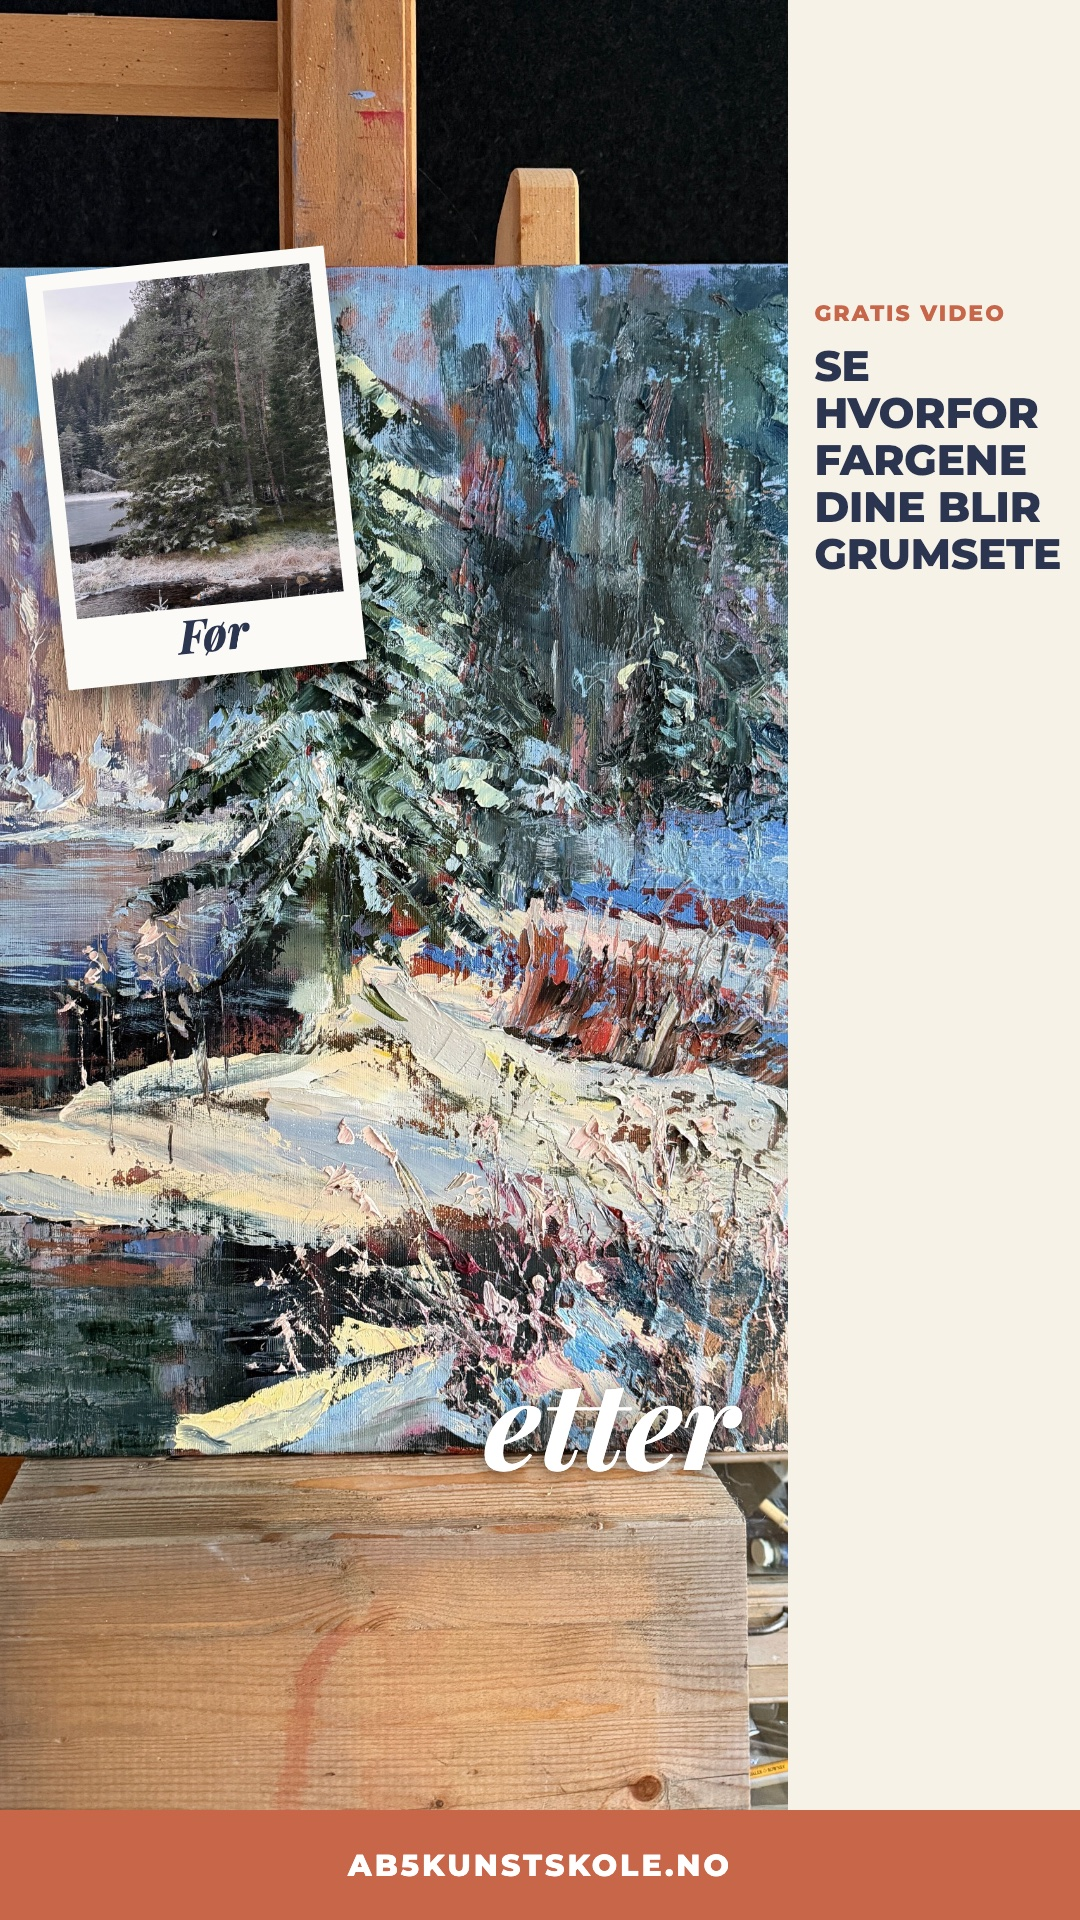
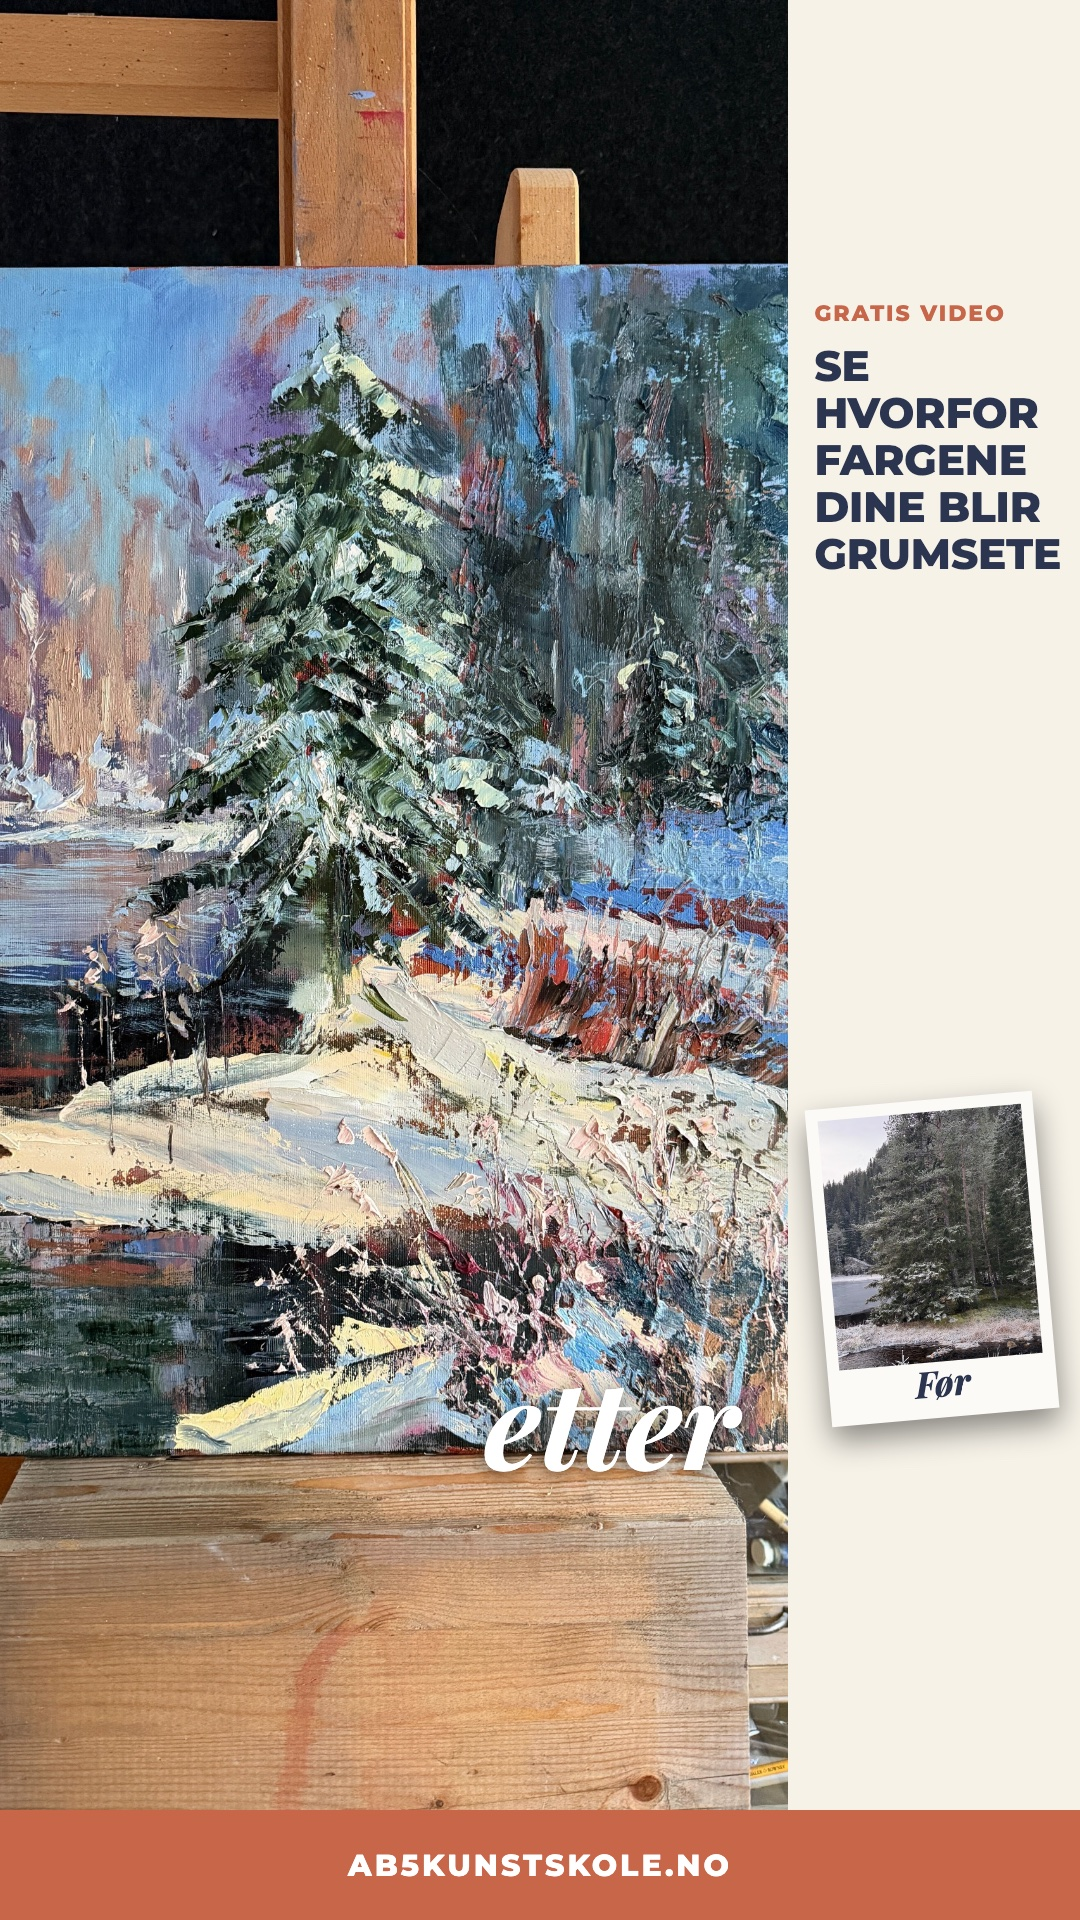
feat: add P1b and P3 ads, fix P2 polaroid

Changed region(s): [[0.0, 0.125, 0.3361, 0.375], [0.7333, 0.5625, 1.0, 0.7812]]

diff --git a/index.html b/index.html
@@ -25,13 +25,13 @@ code{background:#ECE5D6;padding:1px 5px;border-radius:4px;font-size:14px;word-br
 hr{display:none}
 </style></head><body>
 <header><div class="wrap"><h1>Annonser, januar 2027</h1>
-<p>AB5 Kunstskole. Tre videoannonser og to bildeannonser som sender folk til gratisvideoen, til godkjenning.</p>
-<nav><a href="#v1">V1</a><a href="#v2">V2</a><a href="#v3">V3</a><a href="#p1">P1</a><a href="#p2">P2</a></nav></div></header>
+<p>AB5 Kunstskole. Tre videoannonser og fire bildeannonser som sender folk til gratisvideoen, til godkjenning.</p>
+<nav><a href="#v1">V1</a><a href="#v2">V2</a><a href="#v3">V3</a><a href="#p1">P1</a><a href="#p1b">P1b</a><a href="#p2">P2</a><a href="#p3">P3</a></nav></div></header>
 <main><div class="wrap"><h1>Meta ads, January 2027 round: copy</h1>
-<p>Five ads that send people to the free VSL (about 25 min). The ads sell the video, not the workshop: no price, no dates, no ticket.</p>
+<p>Seven ads that send people to the free VSL (about 25 min). The ads sell the video, not the workshop: no price, no dates, no ticket.</p>
 <ul>
 <li>Videos follow the best freebie format from November ("Ad 1 – New Video", CPL 16.5): Agita talking straight to camera in the studio, paint tubes in hand, paintings behind her, 40–50 seconds, mostly one take. V1 adds two overhead palette shots. All three can be filmed in one session.</li>
-<li>Photos follow the two best image formats: the Før/Etter split ("Image 1 Before After", webinar) and the polaroid collage ("Image 2 – Du maler", direct sale).</li>
+<li>Photos follow the two best image formats (P1b is a test variant of P1, P3 is student social proof in the P2 layout): the Før/Etter split ("Image 1 Before After", webinar) and the polaroid collage ("Image 2 – Du maler", direct sale).</li>
 <li>Every ad has 3 primary texts, 3 headlines and 3 descriptions (the short line under the headline in the feed).</li>
 <li>Button on every ad: <strong>Learn more</strong> ("Se mer"). Destination: the VSL page.</li>
 <li>Claims come from the VSL script (<code>copy/vsl-jan-2027/vsl-manus.md</code>). The warm/cold colour rule is not stated anywhere in the ads, because Agita has not confirmed it yet.</li>
@@ -343,6 +343,51 @@ hr{display:none}
 <li>Fra foto til maleri som lever</li>
 </ol>
 <hr />
+<h2 id="p1b">P1b: Før/Etter split, muddy painting</h2>
+<div class="gallery"><a href="images/p1b-grumsete-feed.jpg" target="_blank"><img class="ad" src="images/p1b-grumsete-feed.jpg" alt="P1b feed"></a><a href="images/p1b-grumsete-story.jpg" target="_blank"><img class="ad" src="images/p1b-grumsete-story.jpg" alt="P1b story"></a></div>
+
+<p><strong>Format:</strong> same split as P1, but the Før side is a muddy, flat version of the same painting instead of the photo. 4:5 feed and 9:16 story. Test against P1.
+<strong>Audience:</strong> cold.</p>
+<h3>Image brief</h3>
+<ul>
+<li>Left: Agita's painting made dull and muddy (lower saturation, brown cast, flat contrast, slight blur), aligned with the right side so the spruce runs across the seam. This is an illustration of grumsete colours, not a real student painting.</li>
+<li>Right: the original painting.</li>
+<li>Text box: <strong>GRATIS VIDEO</strong> / <strong>Samme motiv. Samme farger.</strong> / <strong>SE HVORFOR DET BLIR GRUMSETE</strong> / <strong>AB5KUNSTSKOLE.NO</strong></li>
+</ul>
+<h3>Primary text</h3>
+<p><strong>1</strong></p>
+<blockquote>
+<p>Før: Du blander og blander, og alt ender i den samme gråbrune tonen. Snøen blir skitten. Grantreet blir en mørk klump.</p>
+<p>Etter: Samme motiv. Samme farger. Men nå lyser det.</p>
+<p>Forskjellen er ikke talent. Agita viser deg hva det er i en gratis video.</p>
+<p>👉 Klikk her for å få tilgang med en gang</p>
+</blockquote>
+<p><strong>2</strong></p>
+<blockquote>
+<p>Kjenner du igjen bildet til venstre?</p>
+<p>Du hadde et vakkert vinterbilde inne i hodet. Men på lerretet ble det grått, flatt og livløst. Og så havnet det i skapet.</p>
+<p>I en gratis video viser Agita deg hvorfor det skjer, og hva du kan gjøre i stedet.</p>
+<p>👉 Klikk her for å få tilgang med en gang</p>
+</blockquote>
+<p><strong>3</strong></p>
+<blockquote>
+<p>Samme motiv. Samme farger. To helt ulike bilder.</p>
+<p>Se hvorfor i Agitas gratis video.</p>
+<p>👉 Klikk her for å se videoen med en gang</p>
+</blockquote>
+<h3>Headlines</h3>
+<ol>
+<li>Samme motiv. Samme farger.</li>
+<li>Hvorfor blir snøen grå?</li>
+<li>Én ting som forandrer maleriene dine</li>
+</ol>
+<h3>Descriptions</h3>
+<ol>
+<li>Gratis video, ca. 25 min</li>
+<li>Se forskjellen forklart</li>
+<li>Det er ikke talent du mangler</li>
+</ol>
+<hr />
 <h2 id="p2">P2: Polaroid collage</h2>
 <div class="gallery"><a href="images/p2-polaroid-feed.jpg" target="_blank"><img class="ad" src="images/p2-polaroid-feed.jpg" alt="P2 feed"></a><a href="images/p2-polaroid-story.jpg" target="_blank"><img class="ad" src="images/p2-polaroid-story.jpg" alt="P2 story"></a></div>
 
@@ -350,7 +395,7 @@ hr{display:none}
 <strong>Audience:</strong> cold and retarget.</p>
 <h3>Image brief</h3>
 <ul>
-<li>Polaroid of the reference photo top left, labelled «Før».</li>
+<li>Polaroid of the reference photo, labelled «Før», in the right panel under the text, so it does not cover the painting.</li>
 <li>Agita's painting on the easel (<code>painting-easel.jpg</code>), «etter» in white italic serif on the painting.</li>
 <li>Right side: vertical light panel with a paintbrush:</li>
 <li>Small caps: <strong>GRATIS VIDEO</strong></li>
@@ -390,12 +435,60 @@ hr{display:none}
 <li>Se hvorfor det skjer</li>
 </ol>
 <hr />
+<hr />
+<h2 id="p3">P3: Student work (social proof)</h2>
+<div class="gallery"><a href="images/p3-elevarbeid-feed.jpg" target="_blank"><img class="ad" src="images/p3-elevarbeid-feed.jpg" alt="P3 feed"></a><a href="images/p3-elevarbeid-story.jpg" target="_blank"><img class="ad" src="images/p3-elevarbeid-story.jpg" alt="P3 story"></a></div>
+
+<p><strong>Format:</strong> the polaroid collage layout from P2, with Nina Fagereng's painting of the same scene as the main picture. 4:5 feed and 9:16 story.
+<strong>Audience:</strong> cold and retarget.</p>
+<h3>Image brief</h3>
+<ul>
+<li>Main: Nina's painting (<code>source/student-nina.jpg</code>), caption «Malt av Nina» in white italic serif.</li>
+<li>Right panel: <strong>ELEVARBEID</strong> / <strong>DETTE ER IKKE AGITAS MALERI</strong>, with the reference photo as a polaroid labelled «Motivet» below the text.</li>
+<li>Bottom bar: <strong>AB5KUNSTSKOLE.NO</strong></li>
+</ul>
+<h3>Primary text</h3>
+<p><strong>1</strong></p>
+<blockquote>
+<p>Dette er ikke Agitas maleri.</p>
+<p>Det er malt av Nina Fagereng, en av elevene våre. Samme motiv som Agita malte: grantreet ved elva, snøen og lyset.</p>
+<p>Hvordan kommer man dit fra et hvitt lerret? Agita viser deg de fem stegene i en gratis video.</p>
+<p>👉 Klikk her for å få tilgang med en gang</p>
+</blockquote>
+<p><strong>2</strong></p>
+<blockquote>
+<p>Se på lyset i snøen. På grantreet som står fram foran skogen bak.</p>
+<p>Det er malt av Nina, elev hos AB5 Kunstskole.</p>
+<p>Lurer du på om du kan male noe slikt? Se Agitas gratis video om de fem stegene fra hvitt lerret til ferdig maleri.</p>
+<p>👉 Klikk her for å få tilgang med en gang</p>
+</blockquote>
+<p><strong>3</strong></p>
+<blockquote>
+<p>Malt av Nina, elev hos AB5 Kunstskole.</p>
+<p>Se stegene vi lærer bort i Agitas gratis video.</p>
+<p>👉 Klikk her for å se videoen med en gang</p>
+</blockquote>
+<h3>Headlines</h3>
+<ol>
+<li>Malt av en av elevene våre</li>
+<li>Dette er ikke Agitas maleri</li>
+<li>Fra hvitt lerret til dette</li>
+</ol>
+<h3>Descriptions</h3>
+<ol>
+<li>Gratis video, ca. 25 min</li>
+<li>Fem steg fra hvitt lerret</li>
+<li>Se hvordan du kommer dit</li>
+</ol>
 <h2>Assets needed from Agita</h2>
 <ol>
 <li>One filming session in the studio (about 30 min): V1 with a red and a blue tube, V2 with tubes in hand, V3 with a blank canvas on an easel. Paintings in the background.</li>
 <li>Done: the winter painting and its reference photo are in <code>assets/ads/workshop-jan-2027/source/</code>.</li>
 </ol>
 <h2>Open questions</h2>
+<ul>
+<li>Nina Fagereng must agree to her name and painting being used in ads (P3). Also confirm whether the «Nina» quote in the VSL is the same person.</li>
+</ul>
 <p>Confirmed 26 Nov 2026: the VSL page asks for sign-up before the video, so «få tilgang» stays.</p>
 <ol>
 <li>V1 says «én ting om fargene i tubene dine». This stays true whatever Agita decides about the warm/cold rule, but she should read it.</li>

diff --git a/build.py b/build.py
@@ -7,7 +7,7 @@ import markdown
 SRC = pathlib.Path.home() / "agita-project/copy/ads-jan-2027/ad-copy.md"
 md = SRC.read_text()
 
-imgs = {"P1": "p1-for-etter", "P2": "p2-polaroid"}
+imgs = {"P1": "p1-for-etter", "P1b": "p1b-grumsete", "P2": "p2-polaroid", "P3": "p3-elevarbeid"}
 for key, stem in imgs.items():
     gallery = "".join(
         f'<a href="images/{stem}-{fmt}.jpg" target="_blank"><img class="ad" src="images/{stem}-{fmt}.jpg" alt="{key} {fmt}"></a>'
@@ -15,7 +15,7 @@ for key, stem in imgs.items():
     md = re.sub(rf"(## {key}:[^\n]*\n)", rf'\1\n<div class="gallery">{gallery}</div>\n\n', md)
 
 body = markdown.markdown(md, extensions=["tables"])
-sections = [("v1", "V1"), ("v2", "V2"), ("v3", "V3"), ("p1", "P1"), ("p2", "P2")]
+sections = [("v1", "V1"), ("v2", "V2"), ("v3", "V3"), ("p1", "P1"), ("p1b", "P1b"), ("p2", "P2"), ("p3", "P3")]
 for anchor, key in sections:
     body = body.replace(f"<h2>{key}:", f'<h2 id="{anchor}">{key}:', 1)
 nav = "".join(f'<a href="#{a}">{k}</a>' for a, k in sections)
@@ -47,7 +47,7 @@ code{{background:#ECE5D6;padding:1px 5px;border-radius:4px;font-size:14px;word-b
 hr{{display:none}}
 </style></head><body>
 <header><div class="wrap"><h1>Annonser, januar 2027</h1>
-<p>AB5 Kunstskole. Tre videoannonser og to bildeannonser som sender folk til gratisvideoen, til godkjenning.</p>
+<p>AB5 Kunstskole. Tre videoannonser og fire bildeannonser som sender folk til gratisvideoen, til godkjenning.</p>
 <nav>{nav}</nav></div></header>
 <main><div class="wrap">{body}</div></main></body></html>"""
 pathlib.Path(__file__).with_name("index.html").write_text(page)
